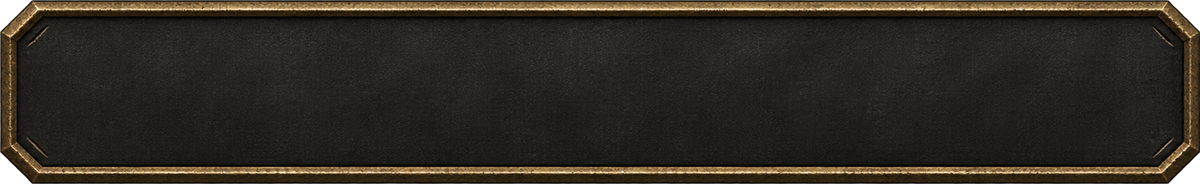
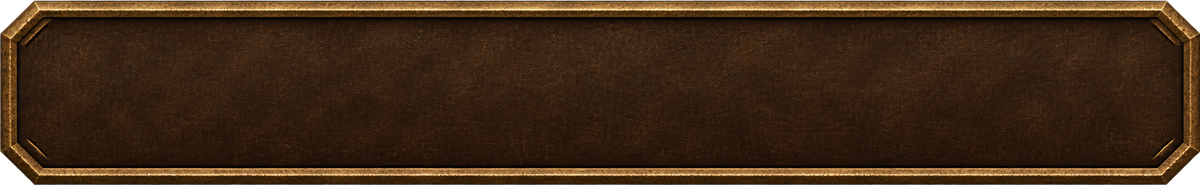
Unify antique gold UI and fix alternative cards and tray borders

diff --git a/index.html b/index.html
@@ -1,6 +1,6 @@
 <!doctype html>
 <html lang="ja" data-startup>
-<head><style id="startup-style">html[data-startup],html[data-startup] body{margin:0;background:#070b0d;overflow:hidden}html[data-startup] body>:not(#startup-status):not(noscript){opacity:0!important;visibility:hidden!important;pointer-events:none!important}#startup-status{position:fixed;inset:0;z-index:10000;display:flex;flex-direction:column;align-items:center;justify-content:center;gap:16px;margin:0;padding:24px;background:#070b0d;color:#c7c8cc;font:14px/1.8 sans-serif;text-align:center}#startup-status[hidden]{display:none!important}#startup-retry{padding:10px 18px;border:1px solid #878b92;border-radius:4px;background:#303237;color:#eee;font:inherit}#startup-retry[hidden]{display:none}</style><meta charset="UTF-8"><meta name="viewport" content="width=device-width,initial-scale=1,viewport-fit=cover"><meta name="theme-color" content="#292b2f"><title>骸の旅路 — 記憶の迷宮</title><link rel="icon" href="./favicon.svg" type="image/svg+xml"><link rel="stylesheet" href="./style.css?v=13eafff0ea74"><link rel="stylesheet" href="./screens.css?v=4a846210959d"><script type="importmap" id="asset-imports">{"imports":{"./active-directive.js":"./active-directive.js?v=cf545443e758","./actor-rules.js":"./actor-rules.js?v=d719d29eca9c","./app.js":"./app.js?v=3f24b8c36dee","./augment-art.js":"./augment-art.js?v=c145d1a95447","./augment-growth.js":"./augment-growth.js?v=637a4bc6e426","./augment-strength.js":"./augment-strength.js?v=b853f323138f","./augment-view.js":"./augment-view.js?v=e533cf560698","./augments.js":"./augments.js?v=ade176a55431","./awakening.js":"./awakening.js?v=9545f9c3026c","./boss-arena.js":"./boss-arena.js?v=0a249ca520c5","./build-performance.js":"./build-performance.js?v=6803146a32e4","./build-themes.js":"./build-themes.js?v=d74fd17a7489","./card-access.js":"./card-access.js?v=67c9f3693eda","./card-catalog.js":"./card-catalog.js?v=65f7715c196e","./card-editor.js":"./card-editor.js?v=58c45ca7ecc8","./card-inventory.js":"./card-inventory.js?v=2f6ea98e2490","./card-orders.js":"./card-orders.js?v=2303026dee62","./card-placement.js":"./card-placement.js?v=3ba1b736795a","./character-animation.js":"./character-animation.js?v=995ab525ae6a","./chest-view.js":"./chest-view.js?v=36ab0ed8c3bb","./combat-feedback.js":"./combat-feedback.js?v=f9baefb4df22","./crypt-obstacles.js":"./crypt-obstacles.js?v=0a9693abb01a","./damage-view.js":"./damage-view.js?v=3d8c41c8fd54","./data.js":"./data.js?v=daea784c4714","./debug-tools.js":"./debug-tools.js?v=88522133129b","./directive-card-migration.js":"./directive-card-migration.js?v=3d408db01184","./directive-safety.js":"./directive-safety.js?v=9e6f9dc4d673","./display-mode.js":"./display-mode.js?v=1200a20c9763","./drop-system.js":"./drop-system.js?v=5f5b885a6c70","./dungeon-layout.js":"./dungeon-layout.js?v=4766caf4ba4a","./editor-scroll.js":"./editor-scroll.js?v=d432721d02af","./ending-title-transition.js":"./ending-title-transition.js?v=790c3794101f","./enemy-attack-animation.js":"./enemy-attack-animation.js?v=d66a38b23017","./enemy-control.js":"./enemy-control.js?v=4f2f83ac2cdc","./enemy-idle.js":"./enemy-idle.js?v=1bc9f4f49517","./enemy-view.js":"./enemy-view.js?v=60482a0d7187","./engine.js":"./engine.js?v=a1d03fe51224","./entrance-view.js":"./entrance-view.js?v=c71496db5fd5","./equipment-panel.js":"./equipment-panel.js?v=323e0ea4c1e5","./exploration-forecast.js":"./exploration-forecast.js?v=e5f71f93e78e","./extension-view.js":"./extension-view.js?v=35dce4d507d2","./extensions.js":"./extensions.js?v=a08027890abc","./field-events.js":"./field-events.js?v=818fd7056662","./field-messages.js":"./field-messages.js?v=fdf794f2446e","./fog-effect.js":"./fog-effect.js?v=b83174969626","./forecast-comparison.js":"./forecast-comparison.js?v=1d00a0a629c9","./forecast-view.js":"./forecast-view.js?v=bb808a199df6","./game-engine.js":"./game-engine.js?v=9302d4b50852","./gold-art.js":"./gold-art.js?v=206bda0354ce","./gold-ui.js":"./gold-ui.js?v=0b71c32d5722","./healing-items.js":"./healing-items.js?v=c399c53731e4","./hover-help.js":"./hover-help.js?v=f7db15929ea7","./log-visibility.js":"./log-visibility.js?v=a8d184fa9c31","./map-discovery.js":"./map-discovery.js?v=7e85856a912f","./map-view.js":"./map-view.js?v=876ac2506e98","./normal-ending.js":"./normal-ending.js?v=8065f493bbeb","./opening.js":"./opening.js?v=d090e4255ea6","./order-capacity.js":"./order-capacity.js?v=5a79231f3c44","./order-history.js":"./order-history.js?v=1ec38588dd80","./order-presets.js":"./order-presets.js?v=4a1bde551c2d","./orders.js":"./orders.js?v=58b9a71c9bca","./progression.js":"./progression.js?v=fefc50a042f2","./prop-view.js":"./prop-view.js?v=2e8aec011f8d","./readable-props.js":"./readable-props.js?v=fbd89f5e2ec3","./reinforcements.js":"./reinforcements.js?v=17d0aa375da8","./retired-cards.js":"./retired-cards.js?v=e3b150578086","./retired-loot-condition.js":"./retired-loot-condition.js?v=c7e4b2e4ed7f","./retired-tactics.js":"./retired-tactics.js?v=6ac6a3d7bdd6","./scene-depth.js":"./scene-depth.js?v=6e084932d9db","./scene-lighting.js":"./scene-lighting.js?v=2055b97a1055","./scene-music.js":"./scene-music.js?v=e6759fe011ce","./screen-tutorial.js":"./screen-tutorial.js?v=880649e96ede","./set-bonuses.js":"./set-bonuses.js?v=83419172a572","./sight-shape.js":"./sight-shape.js?v=7fb76bf94888","./skill-effect-art.js":"./skill-effect-art.js?v=92b842b4bedb","./skill-effect-events.js":"./skill-effect-events.js?v=b880f8035b4f","./skill-effects.js":"./skill-effects.js?v=09337c83ce4b","./skill-tree.js":"./skill-tree.js?v=a443f7cda48c","./story-text.js":"./story-text.js?v=d15b77ad29ca","./subtitle-player.js":"./subtitle-player.js?v=3683e3daea9e","./tactics-ui.js":"./tactics-ui.js?v=5e3d2164a818","./terrain-view.js":"./terrain-view.js?v=77a73ea7743b","./theme-runtime.js":"./theme-runtime.js?v=d7476fbdffbb","./theme-view.js":"./theme-view.js?v=b37717898b89","./thought-view.js":"./thought-view.js?v=bf9da592d2e4","./trap-effects.js":"./trap-effects.js?v=1da14a90bdb5","./traps.js":"./traps.js?v=97670e4a3b03","./tutorial-spotlight.js":"./tutorial-spotlight.js?v=e4cf5442d32e","./ui-settings.js":"./ui-settings.js?v=367b4894c3e4","./wall-tileset.js":"./wall-tileset.js?v=0efdd86872f1"}}</script><style id="preparation-assets">:root{--prep-card-target:url("./art/ui/preparation/card-target.png?v=294a95499d91");--prep-card-condition:url("./art/ui/preparation/card-condition.png?v=1995a518f47b");--prep-card-skill:url("./art/ui/preparation/card-skill.png?v=30c317bc0a66");--prep-card-action:url("./art/ui/preparation/card-action.png?v=ce7770c0e3d0");--prep-tray-left:url("./art/ui/preparation/tray-left.png?v=41d297bec849");--prep-tray-middle:url("./art/ui/preparation/tray-middle.png?v=e8dbbc8dd60e");--prep-tray-right:url("./art/ui/preparation/tray-right.png?v=26f0500ba6f5")}</style><style id="preparation-text-layout">:root{--prep-text-left:10.097087378640776%;--prep-text-top:49.23076923076923%;--prep-text-width:78.44660194174757%;--prep-text-height:30.76923076923077%;--prep-number-left:37px;--prep-number-top:31px;--prep-number-width:34px;--prep-number-height:34px;--prep-card-overlap:39.37864077669902px;--prep-join-tail:5.048543689320386px;--prep-insertion-width:64px}</style><style id="preparation-decor-assets">:root{--prep-decor-background:url("./art/ui/preparation-decor-v1/background.webp?v=806cf1ca4a8c");--prep-decor-frame:url("./art/ui/preparation-decor-v1/frame.webp?v=45b65807cd5a");--prep-decor-slice:48;--prep-decor-outer:20px;--prep-decor-panel:16px}</style><link rel="stylesheet" href="./antique-ui.css?v=4f9d4cc4bddc"><style id="gold-assets">:root{--gold-ability-attack:url("./art/ui/antique-gold-v1/ability-attack.png?v=48e3b67f4432");--gold-ability-chest:url("./art/ui/antique-gold-v1/ability-chest.png?v=ca330dffb375");--gold-ability-defense:url("./art/ui/antique-gold-v1/ability-defense.png?v=3b2482564a05");--gold-ability-hp:url("./art/ui/antique-gold-v1/ability-hp.png?v=680c501aad6b");--gold-ability-move:url("./art/ui/antique-gold-v1/ability-move.png?v=0ca880a8ae1b");--gold-ability-sight:url("./art/ui/antique-gold-v1/ability-sight.png?v=ed027335c107");--gold-book:url("./art/ui/antique-gold-v1/book.png?v=edeb797b7264");--gold-button:url("./art/ui/antique-gold-v1/button.png?v=01a9e413f3a8");--gold-card-action:url("./art/ui/antique-gold-v1/card-action.png?v=8c69a9cf6aab");--gold-card-alternative:url("./art/ui/antique-gold-v1/card-alternative.png?v=8cf6f141bffc");--gold-card-condition:url("./art/ui/antique-gold-v1/card-condition.png?v=e66b94b636c6");--gold-card-skill:url("./art/ui/antique-gold-v1/card-skill.png?v=2fd9cfc94367");--gold-card-target:url("./art/ui/antique-gold-v1/card-target.png?v=254608e323a7");--gold-field:url("./art/ui/antique-gold-v1/field.png?v=9be005a65906");--gold-hp:url("./art/ui/antique-gold-v1/hp.png?v=b574d07b656b");--gold-kind-action:url("./art/ui/antique-gold-v1/kind-action.png?v=4cbfa665178b");--gold-kind-condition:url("./art/ui/antique-gold-v1/kind-condition.png?v=da177ba18aeb");--gold-kind-skill:url("./art/ui/antique-gold-v1/kind-skill.png?v=41aff171829a");--gold-kind-target:url("./art/ui/antique-gold-v1/kind-target.png?v=f2ae6b7dcaf2");--gold-rail-track:url("./art/ui/antique-gold-v1/rail-track.png?v=fa020306cde2");--gold-rail:url("./art/ui/antique-gold-v1/rail.png?v=092eb8de84ce");--gold-reward:url("./art/ui/antique-gold-v1/reward.png?v=07437a71fd06");--gold-scroll-body-horizontal:url("./art/ui/antique-gold-v1/scroll-body-horizontal.png?v=cb71a077aa82");--gold-scroll-body:url("./art/ui/antique-gold-v1/scroll-body.png?v=2394c78598ac");--gold-scroll-cap-bottom-horizontal:url("./art/ui/antique-gold-v1/scroll-cap-bottom-horizontal.png?v=589e974e116e");--gold-scroll-cap-bottom:url("./art/ui/antique-gold-v1/scroll-cap-bottom.png?v=304f7c05e8b8");--gold-scroll-cap-top-horizontal:url("./art/ui/antique-gold-v1/scroll-cap-top-horizontal.png?v=34d28d09ce79");--gold-scroll-cap-top:url("./art/ui/antique-gold-v1/scroll-cap-top.png?v=4adaaa72540f");--gold-scroll-grip-horizontal:url("./art/ui/antique-gold-v1/scroll-grip-horizontal.png?v=6145e562c73b");--gold-scroll-grip:url("./art/ui/antique-gold-v1/scroll-grip.png?v=376f1246a2cf");--gold-scroll-thumb-horizontal:url("./art/ui/antique-gold-v1/scroll-thumb-horizontal.png?v=1460acf60d65");--gold-scroll-thumb:url("./art/ui/antique-gold-v1/scroll-thumb.png?v=fffee0140a02");--gold-scroll-track:url("./art/ui/antique-gold-v1/scroll-track.png?v=630e21a21adc");--gold-slot:url("./art/ui/antique-gold-v1/slot.png?v=9fc07263a9d2");--gold-tab:url("./art/ui/antique-gold-v1/tab.png?v=92e7f70895c8");--gold-tray-left:url("./art/ui/antique-gold-v1/tray-left.png?v=2e1db8c2f748");--gold-tray-middle:url("./art/ui/antique-gold-v1/tray-middle.png?v=b25e76c1b486");--gold-tray-right:url("./art/ui/antique-gold-v1/tray-right.png?v=dac8b0d32835");--gold-window:url("./art/ui/antique-gold-v1/window.png?v=c82825bbb682")}</style></head>
+<head><style id="startup-style">html[data-startup],html[data-startup] body{margin:0;background:#070b0d;overflow:hidden}html[data-startup] body>:not(#startup-status):not(noscript){opacity:0!important;visibility:hidden!important;pointer-events:none!important}#startup-status{position:fixed;inset:0;z-index:10000;display:flex;flex-direction:column;align-items:center;justify-content:center;gap:16px;margin:0;padding:24px;background:#070b0d;color:#c7c8cc;font:14px/1.8 sans-serif;text-align:center}#startup-status[hidden]{display:none!important}#startup-retry{padding:10px 18px;border:1px solid #878b92;border-radius:4px;background:#303237;color:#eee;font:inherit}#startup-retry[hidden]{display:none}</style><meta charset="UTF-8"><meta name="viewport" content="width=device-width,initial-scale=1,viewport-fit=cover"><meta name="theme-color" content="#292b2f"><title>骸の旅路 — 記憶の迷宮</title><link rel="icon" href="./favicon.svg" type="image/svg+xml"><link rel="stylesheet" href="./style.css?v=13eafff0ea74"><link rel="stylesheet" href="./screens.css?v=4a846210959d"><script type="importmap" id="asset-imports">{"imports":{"./active-directive.js":"./active-directive.js?v=cf545443e758","./actor-rules.js":"./actor-rules.js?v=d719d29eca9c","./app.js":"./app.js?v=3f24b8c36dee","./augment-art.js":"./augment-art.js?v=c145d1a95447","./augment-growth.js":"./augment-growth.js?v=637a4bc6e426","./augment-strength.js":"./augment-strength.js?v=b853f323138f","./augment-view.js":"./augment-view.js?v=e533cf560698","./augments.js":"./augments.js?v=ade176a55431","./awakening.js":"./awakening.js?v=9545f9c3026c","./boss-arena.js":"./boss-arena.js?v=0a249ca520c5","./build-performance.js":"./build-performance.js?v=6803146a32e4","./build-themes.js":"./build-themes.js?v=d74fd17a7489","./card-access.js":"./card-access.js?v=67c9f3693eda","./card-catalog.js":"./card-catalog.js?v=65f7715c196e","./card-editor.js":"./card-editor.js?v=58c45ca7ecc8","./card-inventory.js":"./card-inventory.js?v=2f6ea98e2490","./card-orders.js":"./card-orders.js?v=2303026dee62","./card-placement.js":"./card-placement.js?v=3ba1b736795a","./character-animation.js":"./character-animation.js?v=995ab525ae6a","./chest-view.js":"./chest-view.js?v=36ab0ed8c3bb","./combat-feedback.js":"./combat-feedback.js?v=f9baefb4df22","./crypt-obstacles.js":"./crypt-obstacles.js?v=0a9693abb01a","./damage-view.js":"./damage-view.js?v=3d8c41c8fd54","./data.js":"./data.js?v=daea784c4714","./debug-tools.js":"./debug-tools.js?v=88522133129b","./directive-card-migration.js":"./directive-card-migration.js?v=3d408db01184","./directive-safety.js":"./directive-safety.js?v=9e6f9dc4d673","./display-mode.js":"./display-mode.js?v=1200a20c9763","./drop-system.js":"./drop-system.js?v=5f5b885a6c70","./dungeon-layout.js":"./dungeon-layout.js?v=4766caf4ba4a","./editor-scroll.js":"./editor-scroll.js?v=d432721d02af","./ending-title-transition.js":"./ending-title-transition.js?v=790c3794101f","./enemy-attack-animation.js":"./enemy-attack-animation.js?v=d66a38b23017","./enemy-control.js":"./enemy-control.js?v=4f2f83ac2cdc","./enemy-idle.js":"./enemy-idle.js?v=1bc9f4f49517","./enemy-view.js":"./enemy-view.js?v=60482a0d7187","./engine.js":"./engine.js?v=a1d03fe51224","./entrance-view.js":"./entrance-view.js?v=c71496db5fd5","./equipment-panel.js":"./equipment-panel.js?v=323e0ea4c1e5","./exploration-forecast.js":"./exploration-forecast.js?v=e5f71f93e78e","./extension-view.js":"./extension-view.js?v=35dce4d507d2","./extensions.js":"./extensions.js?v=a08027890abc","./field-events.js":"./field-events.js?v=818fd7056662","./field-messages.js":"./field-messages.js?v=fdf794f2446e","./fog-effect.js":"./fog-effect.js?v=b83174969626","./forecast-comparison.js":"./forecast-comparison.js?v=1d00a0a629c9","./forecast-view.js":"./forecast-view.js?v=bb808a199df6","./game-engine.js":"./game-engine.js?v=9302d4b50852","./gold-art.js":"./gold-art.js?v=4c46531c7b3f","./gold-ui.js":"./gold-ui.js?v=0b71c32d5722","./healing-items.js":"./healing-items.js?v=c399c53731e4","./hover-help.js":"./hover-help.js?v=f7db15929ea7","./log-visibility.js":"./log-visibility.js?v=a8d184fa9c31","./map-discovery.js":"./map-discovery.js?v=7e85856a912f","./map-view.js":"./map-view.js?v=876ac2506e98","./normal-ending.js":"./normal-ending.js?v=8065f493bbeb","./opening.js":"./opening.js?v=d090e4255ea6","./order-capacity.js":"./order-capacity.js?v=5a79231f3c44","./order-history.js":"./order-history.js?v=1ec38588dd80","./order-presets.js":"./order-presets.js?v=4a1bde551c2d","./orders.js":"./orders.js?v=58b9a71c9bca","./progression.js":"./progression.js?v=fefc50a042f2","./prop-view.js":"./prop-view.js?v=2e8aec011f8d","./readable-props.js":"./readable-props.js?v=fbd89f5e2ec3","./reinforcements.js":"./reinforcements.js?v=17d0aa375da8","./retired-cards.js":"./retired-cards.js?v=e3b150578086","./retired-loot-condition.js":"./retired-loot-condition.js?v=c7e4b2e4ed7f","./retired-tactics.js":"./retired-tactics.js?v=6ac6a3d7bdd6","./scene-depth.js":"./scene-depth.js?v=6e084932d9db","./scene-lighting.js":"./scene-lighting.js?v=2055b97a1055","./scene-music.js":"./scene-music.js?v=e6759fe011ce","./screen-tutorial.js":"./screen-tutorial.js?v=880649e96ede","./set-bonuses.js":"./set-bonuses.js?v=83419172a572","./sight-shape.js":"./sight-shape.js?v=7fb76bf94888","./skill-effect-art.js":"./skill-effect-art.js?v=92b842b4bedb","./skill-effect-events.js":"./skill-effect-events.js?v=b880f8035b4f","./skill-effects.js":"./skill-effects.js?v=09337c83ce4b","./skill-tree.js":"./skill-tree.js?v=a443f7cda48c","./story-text.js":"./story-text.js?v=d15b77ad29ca","./subtitle-player.js":"./subtitle-player.js?v=3683e3daea9e","./tactics-ui.js":"./tactics-ui.js?v=5e3d2164a818","./terrain-view.js":"./terrain-view.js?v=77a73ea7743b","./theme-runtime.js":"./theme-runtime.js?v=d7476fbdffbb","./theme-view.js":"./theme-view.js?v=b37717898b89","./thought-view.js":"./thought-view.js?v=bf9da592d2e4","./trap-effects.js":"./trap-effects.js?v=1da14a90bdb5","./traps.js":"./traps.js?v=97670e4a3b03","./tutorial-spotlight.js":"./tutorial-spotlight.js?v=e4cf5442d32e","./ui-settings.js":"./ui-settings.js?v=367b4894c3e4","./wall-tileset.js":"./wall-tileset.js?v=0efdd86872f1"}}</script><style id="preparation-assets">:root{--prep-card-target:url("./art/ui/preparation/card-target.png?v=294a95499d91");--prep-card-condition:url("./art/ui/preparation/card-condition.png?v=1995a518f47b");--prep-card-skill:url("./art/ui/preparation/card-skill.png?v=30c317bc0a66");--prep-card-action:url("./art/ui/preparation/card-action.png?v=ce7770c0e3d0");--prep-tray-left:url("./art/ui/preparation/tray-left.png?v=41d297bec849");--prep-tray-middle:url("./art/ui/preparation/tray-middle.png?v=e8dbbc8dd60e");--prep-tray-right:url("./art/ui/preparation/tray-right.png?v=26f0500ba6f5")}</style><style id="preparation-text-layout">:root{--prep-text-left:10.097087378640776%;--prep-text-top:49.23076923076923%;--prep-text-width:78.44660194174757%;--prep-text-height:30.76923076923077%;--prep-number-left:37px;--prep-number-top:31px;--prep-number-width:34px;--prep-number-height:34px;--prep-card-overlap:39.37864077669902px;--prep-join-tail:5.048543689320386px;--prep-insertion-width:64px}</style><style id="preparation-decor-assets">:root{--prep-decor-background:url("./art/ui/preparation-decor-v1/background.webp?v=806cf1ca4a8c");--prep-decor-frame:url("./art/ui/preparation-decor-v1/frame.webp?v=45b65807cd5a");--prep-decor-slice:48;--prep-decor-outer:20px;--prep-decor-panel:16px}</style><link rel="stylesheet" href="./antique-ui.css?v=70a9a2254b07"><style id="gold-assets">:root{--gold-ability-attack:url("./art/ui/antique-gold-v1/ability-attack.png?v=48e3b67f4432");--gold-ability-chest:url("./art/ui/antique-gold-v1/ability-chest.png?v=ca330dffb375");--gold-ability-defense:url("./art/ui/antique-gold-v1/ability-defense.png?v=3b2482564a05");--gold-ability-hp:url("./art/ui/antique-gold-v1/ability-hp.png?v=680c501aad6b");--gold-ability-move:url("./art/ui/antique-gold-v1/ability-move.png?v=0ca880a8ae1b");--gold-ability-sight:url("./art/ui/antique-gold-v1/ability-sight.png?v=ed027335c107");--gold-book:url("./art/ui/antique-gold-v1/book.png?v=edeb797b7264");--gold-button:url("./art/ui/antique-gold-v1/button.png?v=f72ecfa82cca");--gold-card-action:url("./art/ui/antique-gold-v1/card-action.png?v=8c69a9cf6aab");--gold-card-alternative:url("./art/ui/antique-gold-v1/card-alternative.png?v=e8c5ffbff0fa");--gold-card-condition:url("./art/ui/antique-gold-v1/card-condition.png?v=e66b94b636c6");--gold-card-skill:url("./art/ui/antique-gold-v1/card-skill.png?v=2fd9cfc94367");--gold-card-target:url("./art/ui/antique-gold-v1/card-target.png?v=254608e323a7");--gold-field:url("./art/ui/antique-gold-v1/field.png?v=781863a45d8d");--gold-hp:url("./art/ui/antique-gold-v1/hp.png?v=2e89a1ca88f6");--gold-kind-action:url("./art/ui/antique-gold-v1/kind-action.png?v=4cbfa665178b");--gold-kind-condition:url("./art/ui/antique-gold-v1/kind-condition.png?v=da177ba18aeb");--gold-kind-skill:url("./art/ui/antique-gold-v1/kind-skill.png?v=41aff171829a");--gold-kind-target:url("./art/ui/antique-gold-v1/kind-target.png?v=f2ae6b7dcaf2");--gold-rail-track:url("./art/ui/antique-gold-v1/rail-track.png?v=7dd5ef276253");--gold-rail:url("./art/ui/antique-gold-v1/rail.png?v=8bbce23dddf6");--gold-reward:url("./art/ui/antique-gold-v1/reward.png?v=72556b332c0a");--gold-scroll-body-horizontal:url("./art/ui/antique-gold-v1/scroll-body-horizontal.png?v=50208d4f293f");--gold-scroll-body:url("./art/ui/antique-gold-v1/scroll-body.png?v=37dd7245b200");--gold-scroll-cap-bottom-horizontal:url("./art/ui/antique-gold-v1/scroll-cap-bottom-horizontal.png?v=8fde7b9413bf");--gold-scroll-cap-bottom:url("./art/ui/antique-gold-v1/scroll-cap-bottom.png?v=c849122b1136");--gold-scroll-cap-top-horizontal:url("./art/ui/antique-gold-v1/scroll-cap-top-horizontal.png?v=3c813de273ae");--gold-scroll-cap-top:url("./art/ui/antique-gold-v1/scroll-cap-top.png?v=b46629028260");--gold-scroll-grip-horizontal:url("./art/ui/antique-gold-v1/scroll-grip-horizontal.png?v=e044f86eb1c2");--gold-scroll-grip:url("./art/ui/antique-gold-v1/scroll-grip.png?v=6c89121e166a");--gold-scroll-thumb-horizontal:url("./art/ui/antique-gold-v1/scroll-thumb-horizontal.png?v=c3ded2110ad8");--gold-scroll-thumb:url("./art/ui/antique-gold-v1/scroll-thumb.png?v=6c304595778d");--gold-scroll-track:url("./art/ui/antique-gold-v1/scroll-track.png?v=7dd5ef276253");--gold-slot:url("./art/ui/antique-gold-v1/slot.png?v=7f8bdeb37670");--gold-tab:url("./art/ui/antique-gold-v1/tab.png?v=1f13d56cb86c");--gold-tray-left:url("./art/ui/antique-gold-v1/tray-left.png?v=0c0946839bea");--gold-tray-middle:url("./art/ui/antique-gold-v1/tray-middle.png?v=f19c15e8cdaa");--gold-tray-right:url("./art/ui/antique-gold-v1/tray-right.png?v=662570f6d936");--gold-window:url("./art/ui/antique-gold-v1/window.png?v=cb808601afcd")}</style></head>
 <body><audio id="scene-bgm" loop preload="none" data-opening="./art/BGM/星々の眠る地.mp3?v=38999af25b23" data-dungeon="./art/BGM/洞窟A.mp3?v=86ade3a02600" data-boss="./art/BGM/蒼晶のトレイル.mp3?v=59b0eb63b5e0" data-readable-props="./art/props/readable-v1/atlas-64.png?v=cc4acb329036" data-traps="./art/BGM/絡繰仕掛けの罠を抜けて.mp3?v=e024da6e4365" data-monsters="./art/BGM/密林廃墟群.mp3?v=62f952dd1358" data-fog="./art/BGM/Ruined-Altar.mp3?v=0720136edcd9" data-ending="./art/BGM/光差し込む廃墟.mp3?v=ea94a7b342e8"></audio><section id="normal-ending" class="normal-ending" aria-label="地上の結末" hidden><div class="ending-stage"><img id="will-ending-collapse" src="./art/ending/true-end-collapse.png?v=07069f099404" alt="崩れた骸の手元から古びた遺書を拾う息子" loading="lazy" hidden><img id="will-ending-reading" src="./art/ending/true-end-will-at-dawn.png?v=50a10514d830" alt="骸の外套のそばで古びた遺書を開く息子" loading="lazy" hidden><img id="ending-image" src="./art/ending/normal-end-son-strike-v6.webp?v=c67b4a08d8ce" alt="若者の剣に倒れ、手を伸ばす骸" loading="lazy"><div class="ending-shade"></div><button id="ending-advance" class="subtitle-advance" aria-label="字幕を進める"></button><small id="ending-hint" class="subtitle-hint"></small><p id="ending-subtitle" class="ending-subtitle" aria-live="polite"><span id="ending-text"></span><span id="ending-caret" class="subtitle-caret" aria-hidden="true" hidden>▼</span></p><div id="ending-result" class="ending-result" hidden><h1 id="ending-heading">届かなかった声</h1><p id="ending-label">NORMAL END</p><p><span id="ending-result-note">通常エンド達成<br>次の旅では、B25の古びた遺書の宝箱を開けられます。</span></p><button id="ending-next" class="primary">次の旅へ</button></div></div><button id="ending-options" class="ending-options">オプション</button><button id="ending-skip" class="ending-skip">スキップ</button></section>
 <dialog id="landscape-gate" class="landscape-gate" aria-labelledby="landscape-heading"><h2 id="landscape-heading">横向きでプレイしてください</h2><p id="landscape-status">端末を横向きにしてください。</p><button id="landscape-fullscreen" type="button">横向きで全画面表示</button><small>PCと同じ配置で表示します。</small></dialog><div id="startup-status" role="status" aria-live="polite"><span id="startup-message">読み込み中…</span><button id="startup-retry" type="button" hidden>再読み込み</button></div>
 <noscript><style>#startup-status{display:none!important}</style><p style="color:#eee;padding:24px">ゲームを遊ぶにはJavaScriptを有効にしてください。</p></noscript>

diff --git a/antique-ui.css b/antique-ui.css
@@ -21,7 +21,7 @@ dialog button:not(.illustrated-augment):not(.card-reward-choice):not(#will-advan
 [data-card-kind=condition]{--gold-card:var(--gold-card-condition);--card-width:194px}
 [data-card-kind=action]{--gold-card:var(--gold-card-action);--card-width:184.8px}
 [data-card-kind=skill]{--gold-card:var(--gold-card-skill);--card-width:190.4px}
-[data-condition-or]{--gold-card:var(--gold-card-alternative);--card-width:208px}
+[data-condition-or]{--gold-card:var(--gold-card-alternative);--card-width:194px}
 .fitted-card-editor :is(.palette-card,.board-slot),.reward-card,.codex-card-art{position:relative;background:var(--gold-card) center/contain no-repeat!important;border:0!important;box-shadow:none!important;color:#eee2c8!important;border-radius:0;padding:0!important;isolation:isolate}
 .fitted-card-editor :is(.palette-card,.board-slot):before{content:none!important}
 .fitted-card-editor .palette-card{height:auto;min-height:0;aspect-ratio:456/177;width:100%;font-size:13px;line-height:1.2}
@@ -357,7 +357,7 @@ html body *::-webkit-scrollbar-thumb,html body::-webkit-scrollbar-thumb{backgrou
 html body #prepare-scene #prep-hint{background:transparent!important;box-shadow:none!important;border:0!important}
 html body #prepare-scene #prep-hint:before,html body #prepare-scene #prep-hint:after{background:none!important;content:none!important}
 html body #prepare-scene .fitted-card-editor .card-library-tabs button{isolation:isolate;background:none!important}
-html body #prepare-scene .fitted-card-editor .card-library-tabs button:before{content:'';position:absolute;inset:3px;background:var(--button-background);clip-path:polygon(4px 0,calc(100% - 4px) 0,100% 4px,100% calc(100% - 4px),calc(100% - 4px) 100%,4px 100%,0 calc(100% - 4px),0 4px);z-index:-1;pointer-events:none}
+html body #prepare-scene .fitted-card-editor .card-library-tabs button:before{content:'';position:absolute;inset:3px;background:var(--button-background);clip-path:none;z-index:-1;pointer-events:none}
 html body *::-webkit-scrollbar-thumb,html body::-webkit-scrollbar-thumb{background:var(--gold-scroll-grip) center/100% auto no-repeat,var(--gold-scroll-cap-top) top/100% auto no-repeat,var(--gold-scroll-cap-bottom) bottom/100% auto no-repeat,var(--gold-scroll-body) center/100% auto repeat-y!important;border:0!important;box-shadow:none!important;min-height:38px}
 html body *::-webkit-scrollbar-thumb:horizontal{background:var(--gold-scroll-grip-horizontal) center/auto 100% no-repeat,var(--gold-scroll-cap-top-horizontal) right/auto 100% no-repeat,var(--gold-scroll-cap-bottom-horizontal) left/auto 100% no-repeat,var(--gold-scroll-body-horizontal) center/auto 100% repeat-x!important;min-width:38px}
 /* Left page navigation is centered within the actual left sheet. */
@@ -375,3 +375,16 @@ html body #prepare-scene .fitted-card-editor .card-library-tabs button[data-pale
 html body .fitted-card-editor .fixed-active{border:6px solid transparent;border-image:var(--gold-button) 58 fill / 6px / 0 repeat;border-radius:0;padding:3px 5px;min-height:30px;box-sizing:border-box}
 #codex-dialog .settings-layout>nav button{text-align:center!important;justify-content:center!important}
 @media(max-height:540px){#codex-dialog .settings-layout>nav{gap:5px;padding:2px 4%;overflow:auto}#codex-dialog .settings-layout>nav button{min-height:30px!important;padding:1px 3px!important;font-size:10px!important}#codex-body .codex-table{table-layout:fixed;font-size:10px}#codex-body .codex-table :is(th,td){padding:5px 3px;width:auto!important;min-width:0;overflow-wrap:anywhere}#codex-body .codex-table :is(th,td):first-child{width:64%!important}#codex-body .codex-table small{font-size:8px}}
+
+/* Warm antique-gold surfaces; keep approved tray artwork entirely independent. */
+html body #prepare-scene .fitted-card-editor .tray-surface{height:124px;padding:25px 64px 25px 78px;background-size:auto 124px,auto 124px}
+html body #prepare-scene .fitted-card-editor .tray-surface:before{inset:0 60px 0 72px;background-size:auto 124px}
+html body #prepare-scene .fitted-card-editor .board-rule .row-handle{left:20px;top:43px;width:40px;height:40px}
+html body #prepare-scene .fitted-card-editor .card-library-tabs button[data-palette-tab]:before{clip-path:none!important;inset:-1px!important}
+html body #prepare-scene .card-library-tabs button[data-palette-tab]{overflow:hidden;border-radius:2px}
+html body *::-webkit-scrollbar-track:horizontal{background:#332410!important;border-color:#88703e!important}
+html body *::-webkit-scrollbar-corner{background:#332410!important}
+
+/* Alternative conditions retain the identical slot dimensions and heading anchor. */
+html body .fitted-card-editor .board-slot[data-card-kind=condition][data-condition-or]{--card-width:194px;--gold-card:var(--gold-card-alternative)}
+html body .card-kind-label{left:30%;width:56%;top:6%;height:18%!important;max-height:none!important;display:flex!important;align-items:center;justify-content:center;text-align:center;line-height:1;transform:none}

diff --git a/gold-art.js b/gold-art.js
@@ -7,36 +7,36 @@ export const GOLD_ART={
   "ability-move": "./art/ui/antique-gold-v1/ability-move.png?v=0ca880a8ae1b",
   "ability-sight": "./art/ui/antique-gold-v1/ability-sight.png?v=ed027335c107",
   "book": "./art/ui/antique-gold-v1/book.png?v=edeb797b7264",
-  "button": "./art/ui/antique-gold-v1/button.png?v=01a9e413f3a8",
+  "button": "./art/ui/antique-gold-v1/button.png?v=f72ecfa82cca",
   "card-action": "./art/ui/antique-gold-v1/card-action.png?v=8c69a9cf6aab",
-  "card-alternative": "./art/ui/antique-gold-v1/card-alternative.png?v=8cf6f141bffc",
+  "card-alternative": "./art/ui/antique-gold-v1/card-alternative.png?v=e8c5ffbff0fa",
   "card-condition": "./art/ui/antique-gold-v1/card-condition.png?v=e66b94b636c6",
   "card-skill": "./art/ui/antique-gold-v1/card-skill.png?v=2fd9cfc94367",
   "card-target": "./art/ui/antique-gold-v1/card-target.png?v=254608e323a7",
-  "field": "./art/ui/antique-gold-v1/field.png?v=9be005a65906",
-  "hp": "./art/ui/antique-gold-v1/hp.png?v=b574d07b656b",
+  "field": "./art/ui/antique-gold-v1/field.png?v=781863a45d8d",
+  "hp": "./art/ui/antique-gold-v1/hp.png?v=2e89a1ca88f6",
   "kind-action": "./art/ui/antique-gold-v1/kind-action.png?v=4cbfa665178b",
   "kind-condition": "./art/ui/antique-gold-v1/kind-condition.png?v=da177ba18aeb",
   "kind-skill": "./art/ui/antique-gold-v1/kind-skill.png?v=41aff171829a",
   "kind-target": "./art/ui/antique-gold-v1/kind-target.png?v=f2ae6b7dcaf2",
-  "rail-track": "./art/ui/antique-gold-v1/rail-track.png?v=fa020306cde2",
-  "rail": "./art/ui/antique-gold-v1/rail.png?v=092eb8de84ce",
-  "reward": "./art/ui/antique-gold-v1/reward.png?v=07437a71fd06",
-  "scroll-body-horizontal": "./art/ui/antique-gold-v1/scroll-body-horizontal.png?v=cb71a077aa82",
-  "scroll-body": "./art/ui/antique-gold-v1/scroll-body.png?v=2394c78598ac",
-  "scroll-cap-bottom-horizontal": "./art/ui/antique-gold-v1/scroll-cap-bottom-horizontal.png?v=589e974e116e",
-  "scroll-cap-bottom": "./art/ui/antique-gold-v1/scroll-cap-bottom.png?v=304f7c05e8b8",
-  "scroll-cap-top-horizontal": "./art/ui/antique-gold-v1/scroll-cap-top-horizontal.png?v=34d28d09ce79",
-  "scroll-cap-top": "./art/ui/antique-gold-v1/scroll-cap-top.png?v=4adaaa72540f",
-  "scroll-grip-horizontal": "./art/ui/antique-gold-v1/scroll-grip-horizontal.png?v=6145e562c73b",
-  "scroll-grip": "./art/ui/antique-gold-v1/scroll-grip.png?v=376f1246a2cf",
-  "scroll-thumb-horizontal": "./art/ui/antique-gold-v1/scroll-thumb-horizontal.png?v=1460acf60d65",
-  "scroll-thumb": "./art/ui/antique-gold-v1/scroll-thumb.png?v=fffee0140a02",
-  "scroll-track": "./art/ui/antique-gold-v1/scroll-track.png?v=630e21a21adc",
-  "slot": "./art/ui/antique-gold-v1/slot.png?v=9fc07263a9d2",
-  "tab": "./art/ui/antique-gold-v1/tab.png?v=92e7f70895c8",
-  "tray-left": "./art/ui/antique-gold-v1/tray-left.png?v=2e1db8c2f748",
-  "tray-middle": "./art/ui/antique-gold-v1/tray-middle.png?v=b25e76c1b486",
-  "tray-right": "./art/ui/antique-gold-v1/tray-right.png?v=dac8b0d32835",
-  "window": "./art/ui/antique-gold-v1/window.png?v=c82825bbb682"
+  "rail-track": "./art/ui/antique-gold-v1/rail-track.png?v=7dd5ef276253",
+  "rail": "./art/ui/antique-gold-v1/rail.png?v=8bbce23dddf6",
+  "reward": "./art/ui/antique-gold-v1/reward.png?v=72556b332c0a",
+  "scroll-body-horizontal": "./art/ui/antique-gold-v1/scroll-body-horizontal.png?v=50208d4f293f",
+  "scroll-body": "./art/ui/antique-gold-v1/scroll-body.png?v=37dd7245b200",
+  "scroll-cap-bottom-horizontal": "./art/ui/antique-gold-v1/scroll-cap-bottom-horizontal.png?v=8fde7b9413bf",
+  "scroll-cap-bottom": "./art/ui/antique-gold-v1/scroll-cap-bottom.png?v=c849122b1136",
+  "scroll-cap-top-horizontal": "./art/ui/antique-gold-v1/scroll-cap-top-horizontal.png?v=3c813de273ae",
+  "scroll-cap-top": "./art/ui/antique-gold-v1/scroll-cap-top.png?v=b46629028260",
+  "scroll-grip-horizontal": "./art/ui/antique-gold-v1/scroll-grip-horizontal.png?v=e044f86eb1c2",
+  "scroll-grip": "./art/ui/antique-gold-v1/scroll-grip.png?v=6c89121e166a",
+  "scroll-thumb-horizontal": "./art/ui/antique-gold-v1/scroll-thumb-horizontal.png?v=c3ded2110ad8",
+  "scroll-thumb": "./art/ui/antique-gold-v1/scroll-thumb.png?v=6c304595778d",
+  "scroll-track": "./art/ui/antique-gold-v1/scroll-track.png?v=7dd5ef276253",
+  "slot": "./art/ui/antique-gold-v1/slot.png?v=7f8bdeb37670",
+  "tab": "./art/ui/antique-gold-v1/tab.png?v=1f13d56cb86c",
+  "tray-left": "./art/ui/antique-gold-v1/tray-left.png?v=0c0946839bea",
+  "tray-middle": "./art/ui/antique-gold-v1/tray-middle.png?v=f19c15e8cdaa",
+  "tray-right": "./art/ui/antique-gold-v1/tray-right.png?v=662570f6d936",
+  "window": "./art/ui/antique-gold-v1/window.png?v=cb808601afcd"
 };

diff --git a/SPEC.md b/SPEC.md
@@ -209,13 +209,13 @@ JS/CSS変更後はupdate-assets.jsで配信URLを更新し--checkを通す。mai
 
 ### 準備装飾・カメラ・照明
 
-タブと探索開始ボタンは暗い金属背景と金縁の共通装飾を使用する。カード種類4ボタンは同寸で、枠の内側全体を実際のカードに近い青灰・黄褐・赤褐・灰紫で塗る。基本文字は淡い金色。警告・効果・紙面の暗い文字など意味のある色は維持する。条件カードと探索開始はホバー時に明るくなる。レアリティはカード中央下部の空き領域、優先度は番号枠内で上下左右中央に配置する。全スクロールバーに黒鉄のレールと溝付き古金つまみの共通素材を使う。つまみは上下端・溝・反復用金属面を分け、画像外を単色金で埋めない。縦横を用意し、画像の縦横比は保持する。非対応ブラウザは金系の標準スクロールバーを使用する。図鑑背景の左上の四角い罫線は設けない。左ページの見出し・ボタン群・ボタン文字はページ内中央に配置し、低い横画面は一覧の名前列を64%として過剰な折り返しを防ぐ。
+タブと探索開始ボタンは暗い金属背景と金縁の共通装飾を使用する。カード種類4ボタンは同寸で、枠の内側全体を実際のカードに近い青灰・黄褐・赤褐・灰紫で塗る。背景色に角の切り抜きを設けず、金縁の下まで色を敷く。基本文字は淡い金色。警告・効果・紙面の暗い文字など意味のある色は維持する。条件カードと探索開始はホバー時に明るくなる。レアリティはカード中央下部の空き領域、優先度は番号枠内で上下左右中央に配置する。共通ボタン・タブ・入力欄・ウィンドウ・報酬台・装備枠・HP枠は古金と暖かい青銅の素材を使用し、銀色や黒鉄の縁は使用しない。文字面は暗褐色とする。全スクロールバーに暗い青銅レールと溝付き古金つまみの共通素材を使う。つまみは上下端・溝・反復用金属面を分け、画像外を単色金で埋めない。縦横を用意し、画像の縦横比は保持する。非対応ブラウザは金系の標準スクロールバーを使用する。図鑑背景の左上の四角い罫線は設けない。左ページの見出し・ボタン群・ボタン文字はページ内中央に配置し、低い横画面は一覧の名前列を64%として過剰な折り返しを防ぐ。
 
 開始・再開などの確認枠は最大幅540画面pxとし画面幅に収める。閉じる×は枠中央。オプションの画面カテゴリは標準PCでは1列、低い横画面では明るさを全幅・残りを2列にして全7項目をスクロールなしで表示する。小さい画面や長い一覧では必要なスクロールを維持する。保存形式・ゲーム数値への影響はない。
 
 カードはターゲット＝青灰、条件＝くすんだ金、「または」条件＝緑、アクション＝赤褐色、スキル＝灰紫の固定色で、土台・外枠は古金の共通テーマに固定し、スキン切り替えボタンを設けない。既存端末設定のpreparationSkinは読み込み時に無視し、次回設定保存時に除去する。ゲームセーブ・カード性能・取得条件への影響はない。大外フレーム外は暗色で遮蔽し、内側背景は保持。リストと指示パネルの外側は透過。背景だけ四辺5pxクリップし、装飾はクリップしない。タブ列を薄くし編集2行分を見渡せる高さを確保。
 
-古金共通素材はart/ui/antique-gold-v1を使用。カードは承認済みの全面色・二重金縁・見出し下の飾り線・レアリティ欄を保持し、凹凸の重なりで接続する。カード内の文字とアイコンは画像へ焼き込まず別描画する。種類アイコンは照準／4節点の菱形／剣／8方向の星を、カードリスト・配置カード・宝箱種類選択・報酬カード・カード図鑑で共用。「または」も条件アイコンを使い、緑色で区別する。通常の配置カード高は74画面px。土台は指定されたカードなし原画から左右端と中央を切り出す。高110画面px、左右装飾は等倍率・中央レールは反復し、カード枠を土台の辺に流用しない。折りたたみ行は入力欄の共通金属枠、固定有効表示は共通ボタン枠を使う。装備の能力欄・詳細欄・空欄と拡張機能の所持数・説明欄にも共通枠を使用する。次フロア情報の文字背面は透過する。カード枚数が収まる場合に横スクロールは生じず、収まらない長い列だけ横スクロールする。条件値は4桁の入力とドロップダウンを枠内に置く。カード名は必要に応じて折り返し、レアリティは下部の枠内に表示する。
+古金共通素材はart/ui/antique-gold-v1を使用。カードは承認済みの全面色・二重金縁・見出し下の飾り線・レアリティ欄を保持し、凹凸の重なりで接続する。カード内の文字とアイコンは画像へ焼き込まず別描画する。種類アイコンは照準／4節点の菱形／剣／8方向の星を、カードリスト・配置カード・宝箱種類選択・報酬カード・カード図鑑で共用。「または」も条件アイコンを使い、判別できる深緑色で区別する。通常条件・または条件はともに幅194px・高74pxで、切り替えても配置と行長を変えない。種類名は素材の見出し飾り線の中央を基準に、左30%・幅56%・上6%・高18%の領域内で上下左右中央へ配置する。通常の配置カード高は74画面px。土台は指定されたカードなし原画の内側の線を直線化・接続修復した素材から、同じ高さの左右端と中央を切り出す。内枠は上下の水平線と左右の角が連続するよう描画する。高124画面px、左右装飾は等倍率・中央レールは反復し、カード枠を土台の辺に流用しない。土台の内縁をカードが覆わないよう、カード高74pxに対し上下25px・左78px・右64pxの余白を取る。折りたたみ行は入力欄の共通金属枠、固定有効表示は共通ボタン枠を使う。装備の能力欄・詳細欄・空欄と拡張機能の所持数・説明欄にも共通枠を使用する。次フロア情報の文字背面は透過する。カード枚数が収まる場合に横スクロールは生じず、収まらない長い列だけ横スクロールする。条件値は4桁の入力とドロップダウンを枠内に置く。カード名は必要に応じて折り返し、レアリティは下部の枠内に表示する。
 
 共通ウィンドウ・ボタン・タブ・入力欄・スクロールレール・HP枠・報酬台・装備スロットに承認済み素材を使う。角と端を保持し、長い辺を反復する。アイコンは等倍率で縮小し、装備画面では攻撃／防御／視界／HPの能力アイコンを表示。HP値・回復ポーション数・既存操作は維持。開閉矢印はdetailsの状態に連動する。
 

diff --git a/art/ui/antique-gold-v1/README.md b/art/ui/antique-gold-v1/README.md
@@ -2,15 +2,15 @@
 
 承認されたパズル接続型のカード・土台と、共通ウィンドウ、ボタン、タブ、入力欄、スクロールレール、HP枠、報酬台、装備スロット、能力アイコン、開いた図鑑を収録。
 
-カードと土台は承認済みの文字なし画像（exec-1e5e65f7-1ac9-408a-8cbd-5a849827dab5.png）から切り出し。全面の色・二重金縁・見出し下の菱形飾り・レアリティ欄・土台の装飾を保持。簡素化した別原画は使用しない。共通素材は各承認サンプルの原画から透明余白を除き、等倍率で縮小して使用する。画像生成には内蔵imagegenを使用。
+カードと土台は承認済みの文字なし画像（exec-1e5e65f7-1ac9-408a-8cbd-5a849827dab5.png）から切り出し。全面の色・二重金縁・見出し下の菱形飾り・レアリティ欄・土台の装飾を保持。簡素化した別原画は使用しない。共通ボタン・タブ・入力欄・ウィンドウ・報酬台・装備枠・HP枠・スクロールは、古金と暖かい青銅に再制作した原画から透明余白を除き、等倍率で縮小して使用する。文字面は暗褐色。画像生成には内蔵imagegenを使用。
 
-- card-target / condition / action / alternative / skill: 青灰・金・赤茶・緑・紫。文字と共通アイコンはDOMで別描画。
-- tray-left / middle / right: 今回指定の空土台原画exec-ac15e476-88d9-4e08-8372-b5f26182acb0.pngから切り出し。 左右の装飾を固定寸法で描画し、中央のレールだけ反復。切り出し参照用の原画は配信対象に含めない。
+- card-target / condition / action / alternative / skill: 青灰・金・赤茶・深緑・紫。または用素材は通常条件と同じ形を基準に再制作し、表示はどちらも194×74px。文字と共通アイコンはDOMで別描画。
+- tray-left / middle / right: 指定の空土台原画を基準に、内枠の折れ・重複線を修復したexec-532aa61e-f5c1-48e7-94de-1d36d352a351.pngから切り出し。 左右の装飾を固定寸法で描画し、中央のレールだけ反復。切り出し参照用の原画は配信対象に含めない。
 - kind-target / condition / action / skill: 照準・4節点の菱形・剣・8方向の星。カード、カードリスト、宝箱種類選択、カード図鑑で共用。
 - ability-attack / defense / sight / hp / chest / move: 能力・装備の共通アイコン。
 - window / button / tab / field / rail / hp / reward / slot: 端と角を保持し、長い辺を反復する。新しい文字は素材へ焼き込まない。
 - scroll-cap-top / cap-bottom / grip / body（horizontalを含む）: つまみの端・溝・反復金属面。単色の金背景で画像外を補わず、等倍率で合成する。
-- scroll-track / scroll-thumb / scroll-thumb-horizontal: 今回指定の黒鉄レールと溝付き古金つまみを切り出した縦横共通スクロール部品。画像は等倍率で描画する。
+- scroll-track / scroll-thumb / scroll-thumb-horizontal: 暗い青銅レールと溝付き古金つまみを切り出した縦横共通スクロール部品。画像は等倍率で描画する。
 - rail-track: rail中央から切り出した40×16pxの反復用ストリップ。スクロール途中に端飾りを繰り返さない。
 - book: 左ページ上の四角い罫線を除去した無地紙面。縦横比を保って表示し、綴じ目を避けた左右のページにナビゲーションと本文を配置。
 

diff --git a/SYSTEM_DESIGN.md b/SYSTEM_DESIGN.md
@@ -19,7 +19,7 @@
 | 成長・報酬 | progression.js、drop-system.js、reinforcements.js | EXP・二段階ドロップ・保存RNG・増援 |
 | オーグメント | augments.js、augment-view.js、augment-art.js | 30効果・3択・計算・共通画像付き表示・配信URL |
 | 画面統括 | app.js、index.html、style.css、screens.css、antique-ui.css | 入力・フェイズ表示・ダイアログ停止・描画・保存 |
-| 共通UI装飾 | gold-ui.js、gold-art.js、art/ui/antique-gold-v1 | 共通アイコン・文字の別描画・カード接続・土台とスクロールの固定端・反復面・種類別全面色・ホバー強調・共通スクロール素材・画像ハッシュ配信 |
+| 共通UI装飾 | gold-ui.js、gold-art.js、art/ui/antique-gold-v1 | 共通アイコン・素材中央に合わせた見出しの別描画・通常/または条件の同寸カード接続・古金・青銅の共通素材と土台・スクロールの固定端・反復面・種類別全面色・ホバー強調・共通スクロール素材・画像ハッシュ配信 |
 | 指示UI | card-editor.js、editor-scroll.js | ドラッグ／タップ・行ゴースト・再描画前後の位置保持 |
 | 準備予測 | exploration-forecast.js、forecast-view.js | 複製状態の非同期試行、比較表と指示行の診断 |
 | 表示・設定 | display-mode.js、ui-settings.js、screen-tutorial.js | 16:9拡縮・全画面要求・端末設定・古金共通テーマ・案内 |
